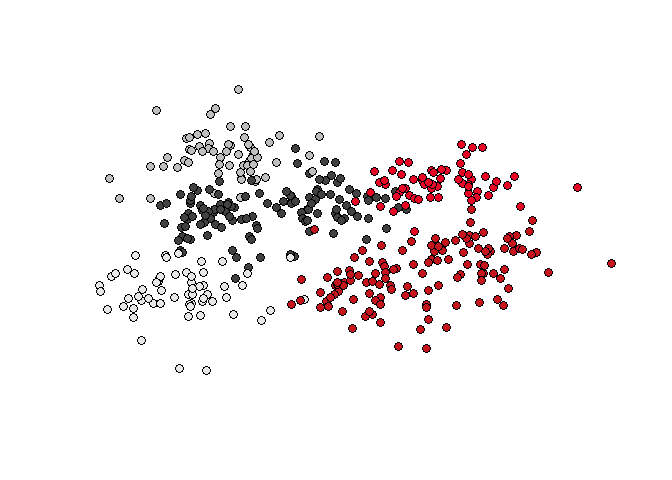
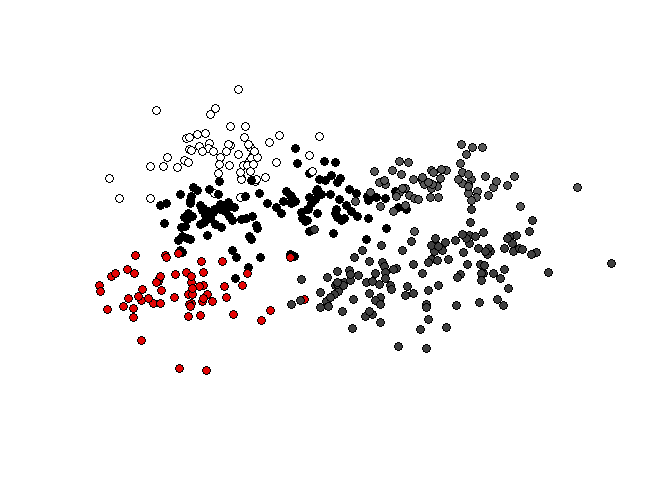
mudando cores

diff --git a/README.md b/README.md
@@ -18,15 +18,15 @@ devtools::install_github("padsInsper/coresInsper")
 
 ``` r
 library(coresInsper)
-scales::show_col(cores_insper(15))
+scales::show_col(cores_insper())
 ```
 
 <img src="man/figures/README-unnamed-chunk-2-1.png" width="100%" />
 
 ``` r
 cores_insper(10)
-#>  [1] "#414042" "#BCBEC0" "#E6E7E8" "#C4161C" "#E80724" "#F69679" "#F15A22"
-#>  [8] "#F58220" "#FAA61A" "#A62B4D"
+#>  [1] "#000000" "#FFFFFF" "#E50505" "#3F3F3F" "#595959" "#808080" "#ABABAB"
+#>  [8] "#DCDCDC" "#620068" "#CB8BDF"
 ```
 
 ## Exemplos
